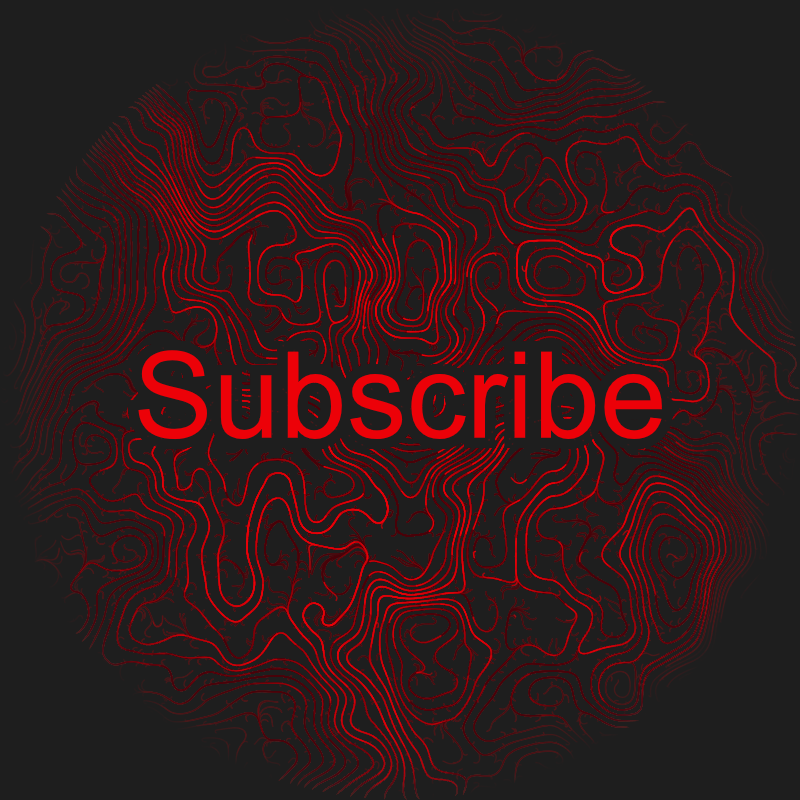
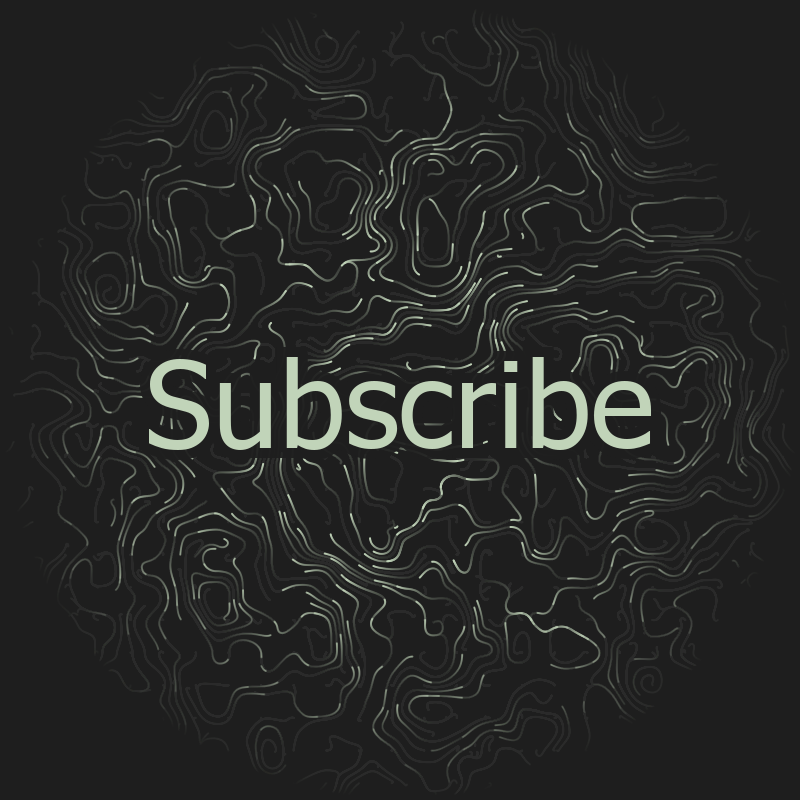
Add files via upload
Versao Final

Changed region(s): [[0.0312, 0.0312, 1.0, 1.0]]

diff --git a/generateSub.js b/generateSub.js
@@ -1,0 +1,84 @@
+const p5 = require('node-p5');
+
+function sketch(p) {
+    var particles = [] 
+    var multiply;
+    var circleSize;
+    var espaçoEntreParticulas;
+    var r;
+    var g;
+    var b;
+    var backgroundAlpha;
+    var loopValue;
+    var toWait;
+    let canva;
+    var dimension;
+    
+    p.setup = () => {
+        dimension = 800;
+        canva = p.createCanvas(dimension , dimension);
+        p.background(30);
+		
+		espaçoEntreParticulas = p.random(20, 60);
+        for (var x = 0; x < dimension; x += espaçoEntreParticulas) {
+			for (var y = 0; y < dimension; y += espaçoEntreParticulas) {
+				var points = p.createVector(x, y);
+                particles.push(points);
+            }
+        }
+        
+		circleSize = p.random(1, 10)
+
+		r = p.random(0, 255);
+		g = p.random(0, 255);
+		b = p.random(0, 255);
+		backgroundAlpha = p.random(0, 20)
+
+		multiply = p.random(0.001, 0.006);
+
+        toWait = p.random(75, 125)
+        loopValue = 0;
+
+		p.fill(r, g, b);
+    }
+    
+    p.draw = () => {
+        p.noStroke()
+        p.background(30, backgroundAlpha)
+        var radius = dimension/2
+
+        for(var i = 0; i < particles.length; i++){
+			var x = particles[i].x, y = particles[i].y;
+			var angle = p.noise(x * multiply, y * multiply) * 360;
+            particles[i].add(p.createVector(p.cos(angle), p.sin(angle)));
+
+            var alpha = p.map(p.dist(radius, radius, x, y), 0, radius, radius, 0)
+			p.fill(r, g, b, alpha)
+    
+            if(p.dist(radius, radius, x, y) < radius){
+                p.ellipse(x, y, circleSize); 
+            }else{
+                particles[i].x = p.random(dimension);
+                particles[i].y = p.random(dimension);
+            }
+        }
+
+        if(loopValue >= toWait){
+			p.fill(r,g,b);
+			p.stroke(30, 240);
+			p.strokeWeight(20);
+			p.textAlign(p.CENTER, p.CENTER);
+			p.textSize(120);
+			p.text('Subscribe', dimension / 2, dimension / 2);
+            p.noLoop();
+            p.saveCanvas(canva, 'images/subscribe/sub', 'png');
+            console.log('New img gerated!');
+            return
+        }
+
+        loopValue += 1;
+    }
+}
+
+let p5Instance = p5.createSketch(sketch);
+// module.exports = p5Instance

diff --git a/generateThumb.py b/generateThumb.py
@@ -6,7 +6,7 @@ def buildThumbnail():
     bolinha = bolinha.rotate(-3, resample=Image.BICUBIC, expand=False)
     # bolinha = bolinha.rotate(-5)
     pix = bolinha.load()
-    color = pix[390, 411]
+    color = pix[407, 411]
 
     buildContourLinesBlurBackground(color)
     buildBrushHead(color)
@@ -33,7 +33,7 @@ def buildThumbnail():
     background.thumbnail(size)
     # background.save('images/thumb/final_thumbnail.png', optimize=True)
     background.save('images/thumb/final_thumbnail.png')
-    # background.show()
+    background.show()
 
 def buildContourLinesBlurBackground(color):
     r, g, b, alpha = color

diff --git a/main.py b/main.py
@@ -4,14 +4,11 @@ from generateThumb import buildThumbnail
 from cropRoundBg import removeBackGround
 
 def main():
+    os.system("node generateSub.js")
     removeBackGround()
     buildClock()
     buildThumbnail()
 
-    file_path = 'images/thumb/final_thumbnail.png'
-    size = os.stat(file_path).st_size
-    mBSize = size / 1024**2
-    print(mBSize)
 
 if __name__ == '__main__':
     main()

diff --git a/cropRoundBg.py b/cropRoundBg.py
@@ -4,7 +4,7 @@ import numpy as np
 def removeBackGround():
     
     # Round crop
-    img = Image.open("images/subscribe/sub3.png").convert("RGB")
+    img = Image.open("images/subscribe/sub.png").convert("RGB")
     npImage = np.array(img)
     h, w = img.size
 

diff --git a/tempCodeRunnerFile.py b/tempCodeRunnerFile.py
@@ -1,0 +1,1 @@
+buildThumbnail
